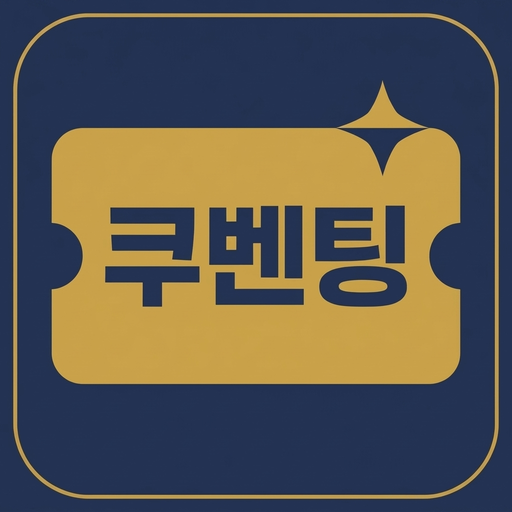
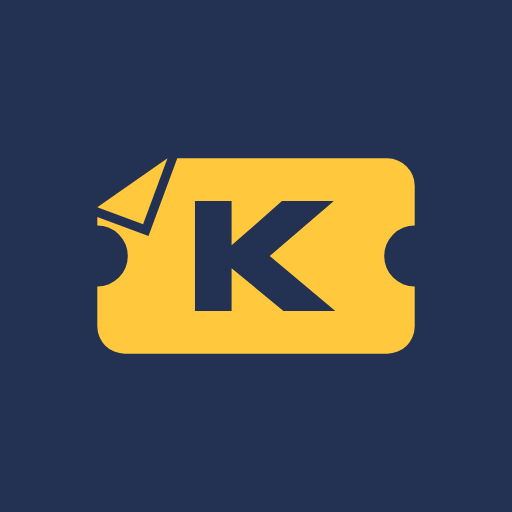
feat(site): 새 K표 로고 — 홈페이지 위 · 아래 · 처리방침, 파비콘 · 앱 아이콘(판 포함) · 링크 미리보기(og v3)

diff --git a/app/app/site/page.tsx b/app/app/site/page.tsx
@@ -44,7 +44,7 @@ export const metadata: Metadata = {
     title: '쿠벤팅 | 평소엔 광고판, 누르면 럭키드로우',
     description: '화면 하나로 움직이는 광고와 경품 이벤트를 함께. 디자인 · 사진은 저희가, 상품만 정하세요.',
     // 그림을 바꾸면 v 를 올린다 — 같은 주소면 메신저 · SNS 가 옛 그림을 계속 보여 준다(카톡은 공유 디버거에서 캐시도 지워야 한다)
-    images: ['/site/og.jpg?v=2'],
+    images: ['/site/og.jpg?v=3'], // v3: 새 K표 로고(10-19) — 카톡이 옛 그림을 들고 있지 않게 주소를 바꾼다
     url: '/',
     siteName: '쿠벤팅',
     type: 'website',
@@ -184,7 +184,7 @@ export default function SitePage() {
       <header className="kv-nav">
         <div className="kv-nav-in">
           <a className="kv-logo" href="#top" aria-label="쿠벤팅 처음으로">
-            <img src="/icon-192.png" alt="" width={32} height={32} />
+            <img src="/brand/mark.svg" alt="" width={45} height={28} />
             <span>KUVENTING</span>
           </a>
           <nav className="kv-links" aria-label="홈페이지 메뉴">

diff --git a/app/app/site/site.css b/app/app/site/site.css
@@ -79,7 +79,7 @@ html:has(.kv){scroll-behavior:smooth}
 .kv-nav-in{width:100%;max-width:var(--max);margin:0 auto;display:flex;align-items:center;gap:32px}
 .kv-logo{display:inline-flex;align-items:center;gap:10px;font-family:var(--kv-display),sans-serif;font-weight:800;
   font-stretch:125%;font-size:15px;letter-spacing:.08em}
-.kv-logo img{width:32px;height:32px;border-radius:9px}
+.kv-logo img{width:auto;height:28px} /* 새 K표 마크(10-19) — 투명 바탕이라 둥근 모서리 없음 */
 .kv-links{margin-left:auto;display:flex;gap:26px;font-family:var(--kv-display),sans-serif;font-stretch:112%;font-weight:700;
   font-size:13px;letter-spacing:.08em;color:var(--ink-2)}
 .kv-links a{transition:color .2s}

diff --git a/app/app/site/SiteFooter.tsx b/app/app/site/SiteFooter.tsx
@@ -20,7 +20,7 @@ export default function SiteFooter({ demos = true }: { demos?: boolean }) {
       <div className="kv-foot-in">
         <div className="kv-foot-brand">
           <Link className="kv-logo" href="/" aria-label="쿠벤팅 홈페이지">
-            <img src="/icon-192.png" alt="" width={28} height={28} /><span>KUVENTING</span>
+            <img src="/brand/mark.svg" alt="" width={40} height={25} /><span>KUVENTING</span>
           </Link>
           <p>평소엔 광고판, 누르면 럭키드로우</p>
           {/* 폼 말고 메일로 바로 묻고 싶은 사람 — 폼 문의도 같은 메일로 알림이 간다(lib/notify.ts) */}

diff --git a/app/app/privacy/page.tsx b/app/app/privacy/page.tsx
@@ -65,7 +65,7 @@ export default function PrivacyPage() {
       <header className="kv-doc-nav">
         <div className="kv-nav-in">
           <Link className="kv-logo" href="/" aria-label="쿠벤팅 홈페이지">
-            <img src="/icon-192.png" alt="" width={32} height={32} />
+            <img src="/brand/mark.svg" alt="" width={45} height={28} />
             <span>KUVENTING</span>
           </Link>
           <Link className="kv-btn primary sm" href="/#contact" style={{ marginLeft: 'auto' }}>도입 문의</Link>
